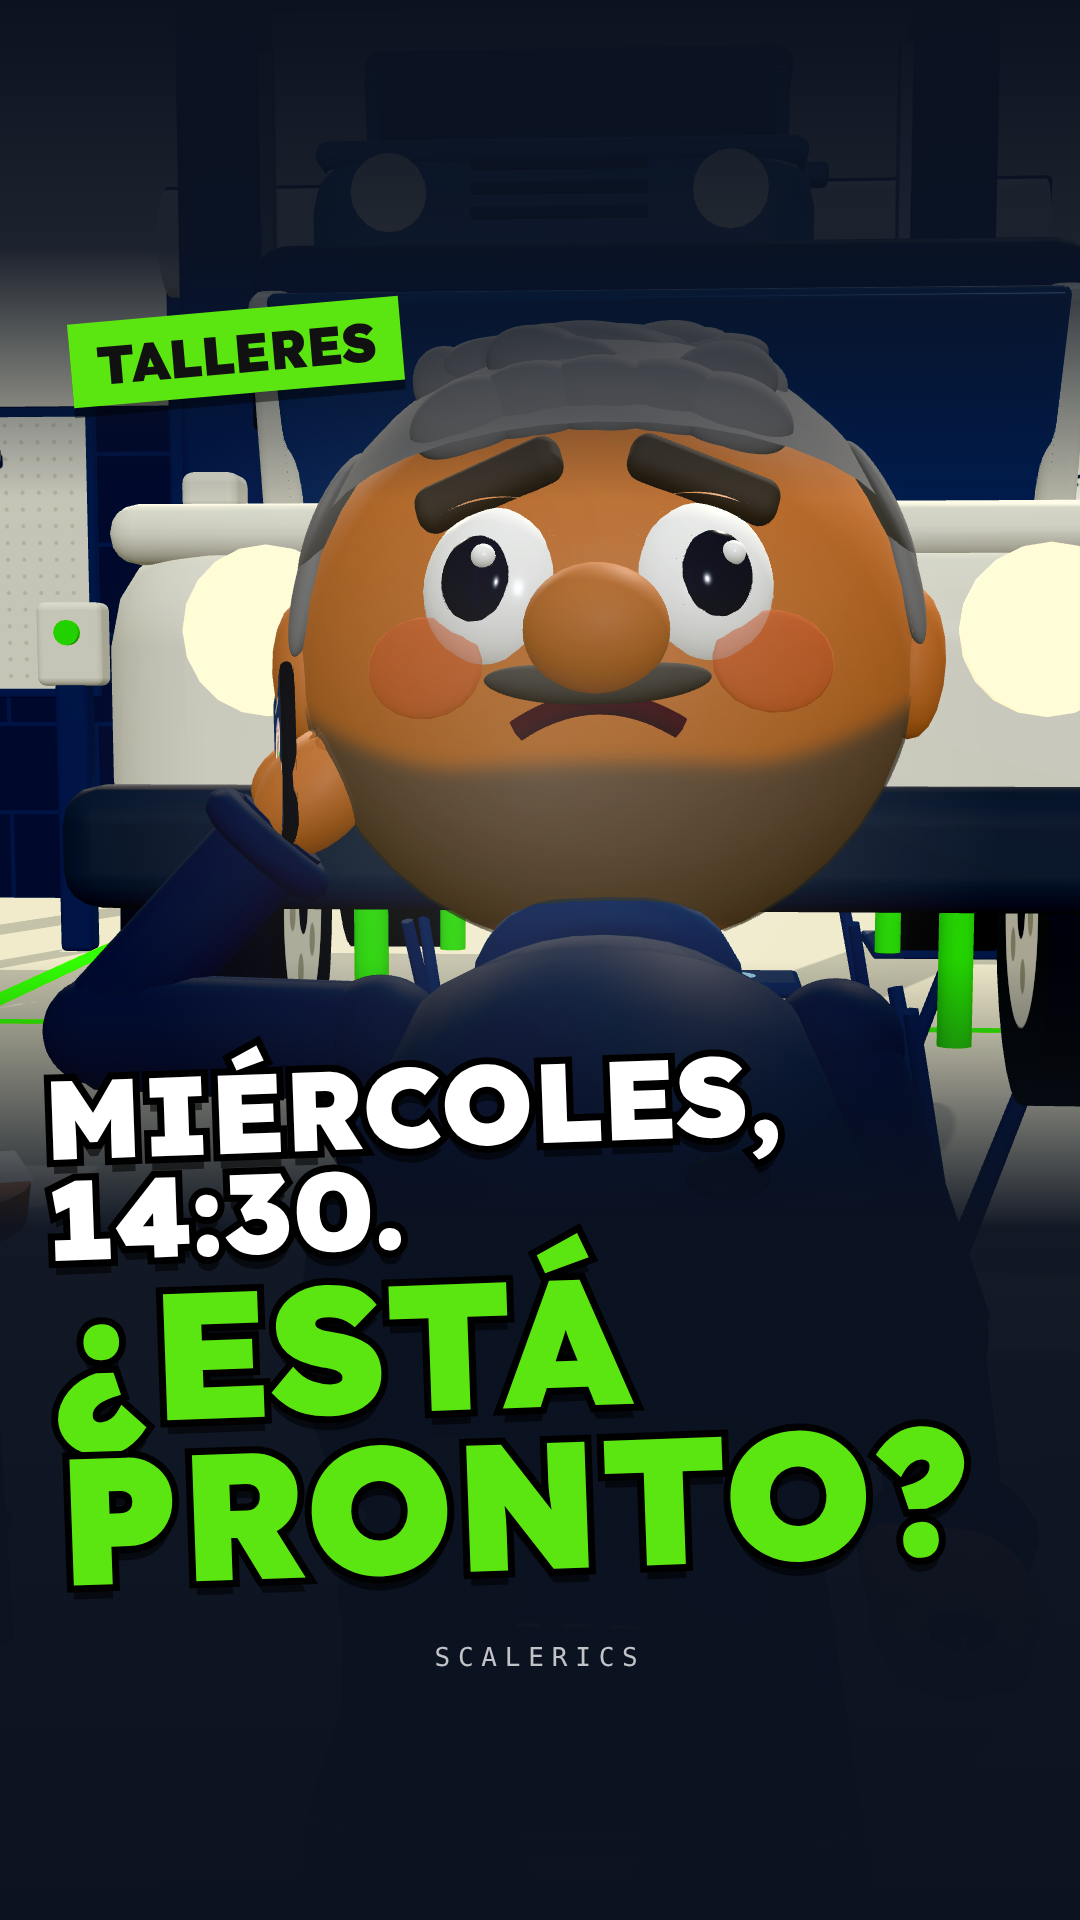
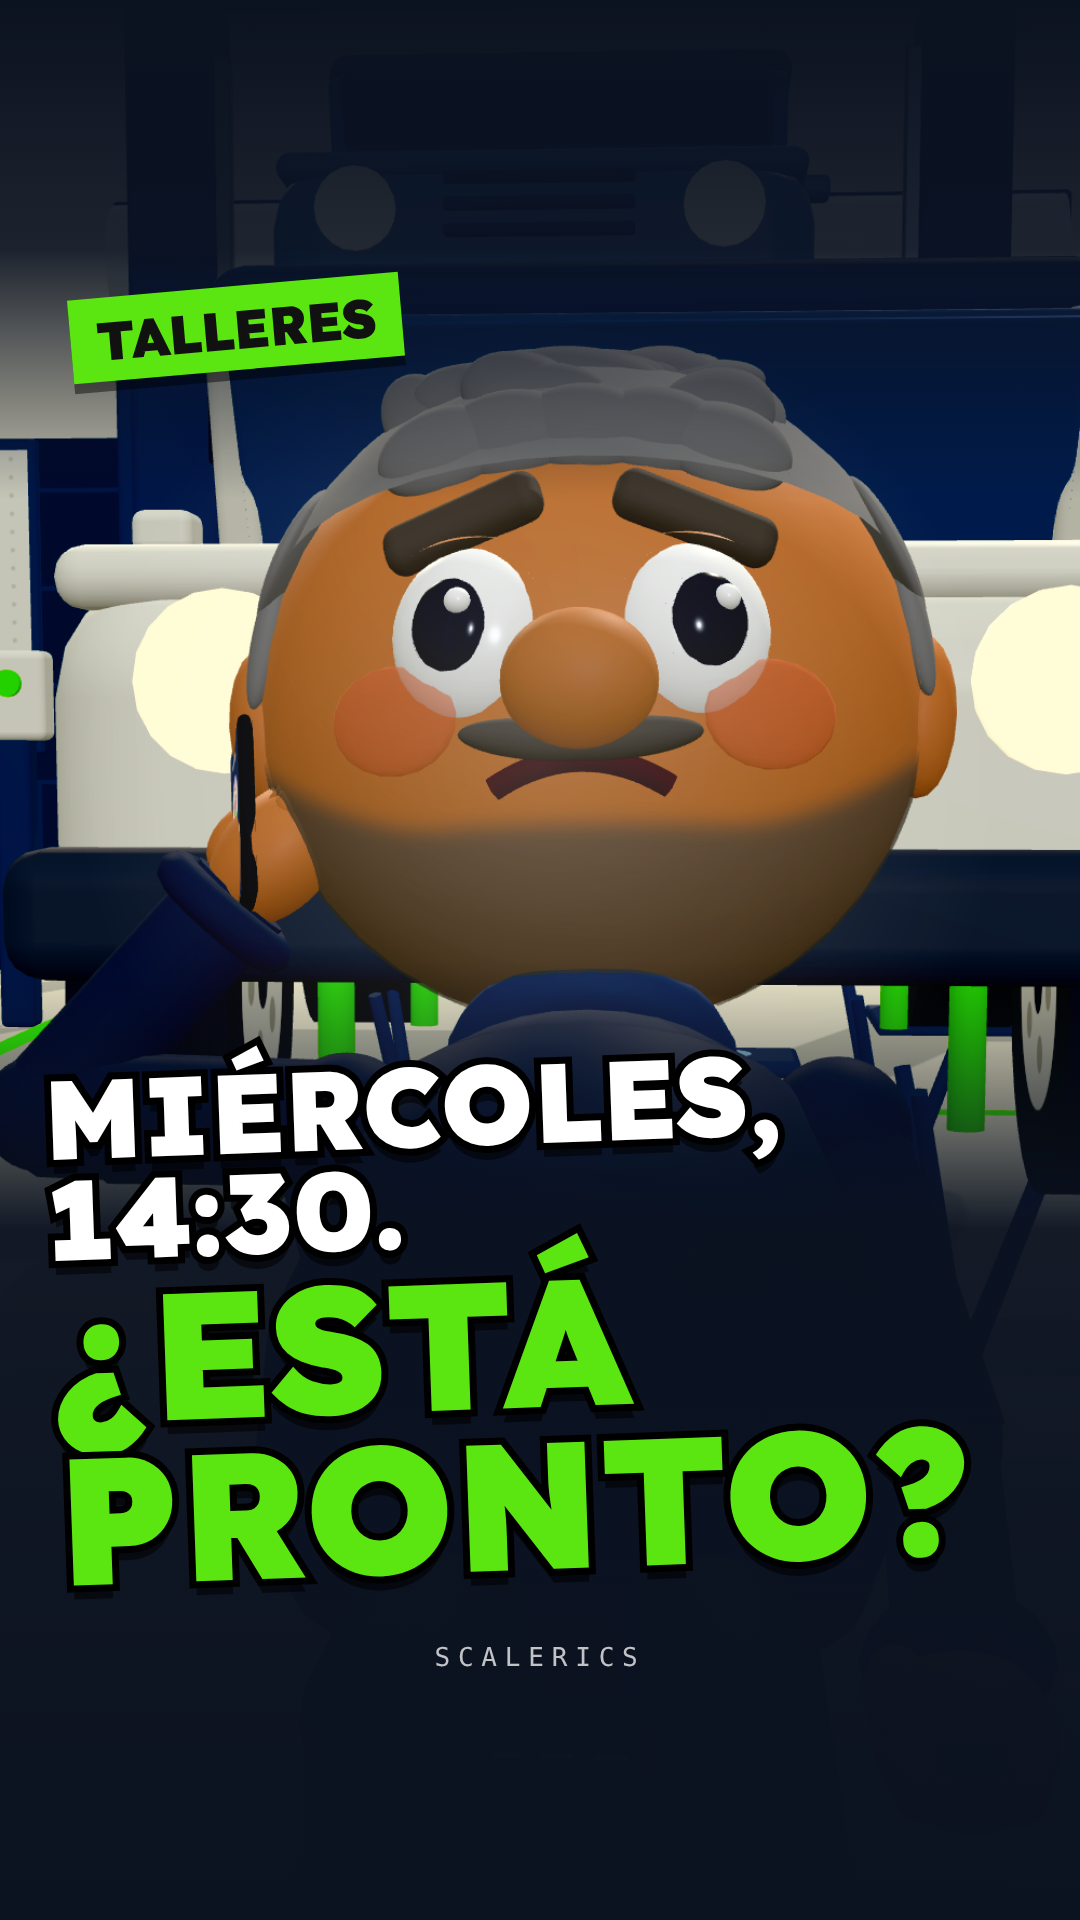
wip: taller-esta-pronto (ronda 5 retoques)
Claude-Session: https://claude.ai/code/session_01Fn7kXAaBbVBwGyQFhjp8sN

Changed region(s): [[0.0, 0.125, 1.0, 0.6562], [0.2444, 0.5938, 0.3056, 0.625]]

diff --git a/reels/taller-esta-pronto/assets/tres.js b/reels/taller-esta-pronto/assets/tres.js
@@ -557,7 +557,7 @@ const FONDO = { taller: 0xe9ece6, rot: 0xf4f4ef, bus: 0xcfdbe6 };
 // =====================================================================================================
 // LOS PERSONAJES
 // =====================================================================================================
-const oscar = crearPersonaje({ ...ELENCO.oscar, franja: null, cuelloAlto: 0.03, dedos: true, parpadeoCada: 999, parpadeoDur: 0.08, parpadeosExtra: [r2(T.cortes[1] + 0.06), r2(T.q5 + 0.08)] });
+const oscar = crearPersonaje({ ...ELENCO.oscar, franja: null, cuelloAlto: 0.03, dedos: true, parpadeoCada: 999, parpadeoDur: 0.08, parpadeosExtra: [r2(T.cortes[1] + 0.06), r2(T.q5 + 0.38)] });
 const maxi = crearPersonaje({ ...ELENCO.maxi, mangas: "largas", dedos: true, parpadeoCada: 999, parpadeoDur: 0.08, parpadeosExtra: [] });
 const daniel = crearPersonaje({ ...ELENCO.daniel, lentesFinos: true, sinPatillas: true, dedos: true, parpadeoCada: 999, parpadeoDur: 0.08, parpadeosExtra: [] });
 const graciela = crearPersonaje({ ...ELENCO.clienta, lentesFinos: true, sinPatillas: true, delantal: C.cr, delantalBorde: C.navy3, dedos: true, parpadeoCada: 999, parpadeosExtra: [] });
@@ -1005,7 +1005,7 @@ const CAM_P2 = (k) => [1.95 - 0.15 * k, 0.75, -0.75 - 0.1 * k, -1.42 + 0.05 * k,
 const CAM_PIZ = (k) => [PIZ.x, 1.75, lerp(0.6, 0.45, k), PIZ.x, 1.62, -4.8, 46];
 const CAM_P5 = (k) => [1.25 - 0.1 * k, 0.95, 6.3 - 0.15 * k, lerp(0.05, -0.2, Math.min(1, k * 3)), 0.92, 3.4, 46];
 const CAM_P6A = (k) => [0.05, 2.2, 3.0 - 0.25 * k, -0.2, 2.45, -3.05, 30 - 3 * k];
-const CAM_Q4 = (k) => [lerp(1.75, 1.65, k), lerp(3.05, 2.95, k), lerp(1.0, 0.85, k), -0.9, lerp(1.3, 1.1, k), -2.9, 58];
+const CAM_Q4 = (k) => [lerp(1.75, 1.65, k), lerp(3.05, 2.95, k), lerp(1.0, 0.85, k), lerp(-0.68, -0.78, k), lerp(1.3, 1.1, k), -2.9, lerp(70, 67, k)];
 const CAM_P6 = (k) => [0.12, 1.15, lerp(6.35, 6.15, k), 0.12, 1.02, 3.5, 34];
 const CAM_C = (k) => [0.15, 1.2, lerp(6.5, 6.3, k), 0.12, 0.84, 3.4, 44];
 const CAM_Q3O = (k) => [0.12, 1.3, lerp(7.3, 7.1, k), 0.12, 0.62, 3.7, 38];
@@ -1296,7 +1296,7 @@ function renderAt(tIn) {
     if (p2 && t >= T.sale6[1] - 0.05) {
       // Óscar con el mate (Q5 tras salir y en el cierre)
       oscar.raiz.updateMatrixWorld(true);
-      po.manoI = pa === "C" ? [0.28, 0.46, 0.3] : [0.24, 0.16, 0.34]; po.codoI = [0.8, -0.6, -0.2]; oscar.poner(po);
+      po.manoI = pa === "C" ? [0.3, 0.6, 0.28] : [0.24, 0.16, 0.34]; po.codoI = [0.8, -0.6, -0.2]; oscar.poner(po);
       mate.visible = true; oscar.brazos[0].mano.getWorldPosition(_w); mate.position.copy(_w).add(V3(0, -0.07, 0.0)); mate.rotation.set(0, 0.3, 0);
     }
     // Maxi
@@ -1343,6 +1343,8 @@ function renderAt(tIn) {
   if (ROT.visible) { graciela.raiz.visible = pa !== "Q1i"; const pg = poseGraciela(t); if (pa === "Q1g") { const yaw = Math.atan2(GRA.x - 0.12 - GRA.x, 0.7 - GRA.z); pg.cabeza = { ...(pg.cabeza || {}), giro: cl(yaw * 0.9, -0.6, 0.6) }; } if (pa === "Q1g") { pg.cabeza = { ...(pg.cabeza || {}), giro: -0.25, asiente: 0.18 }; pg.ojos = { ...(pg.ojos || {}), x: -0.5, y: -0.5, abiertos: 1 }; } if (pa === "Q1g") { pg.manoD = [-0.1, 0.4, 0.36]; pg.codoD = [-0.8, -0.6, -0.2]; pg.manoI = [0.08, 0.36, 0.36]; pg.codoI = [0.8, -0.6, -0.2]; pg.cabeza = { ...(pg.cabeza || {}), giro: 0.05, asiente: 0.3 }; pg.ojos = { ...(pg.ojos || {}), x: 0, y: -0.75, abiertos: 1 }; }
     graciela.poner(pg);
     if (pa === "Q1g") { graciela.raiz.updateMatrixWorld(true); celG.visible = false; celGm.visible = true; const a = new THREE.Vector3(), b = new THREE.Vector3(); graciela.brazos[1].mano.getWorldPosition(a); graciela.brazos[0].mano.getWorldPosition(b); celGm.position.copy(a).lerp(b, 0.5).add(V3(0, 0.1, 0.02)); celGm.lookAt(graciela.cabeza.localToWorld(V3(0, 0.1, 0.3))); } }
+  // Q4: sin el auto de Graciela (ni la camilla) en primer plano, para que el de Daniel se vea entero
+  if (pa === "Q4") { autoG.visible = false; CAMILLA.g.visible = false; oscar.raiz.visible = false; celO.visible = false; mate.visible = false; }
   // ---- cámara ----
   if (pl[2]) { ponerCam(catmull(pl[2], t), t); camera.updateMatrixWorld(true); }
   if (pa === "P3") {
@@ -1361,7 +1363,7 @@ function renderAt(tIn) {
   if (pa === "Q2") {
     tablet.updateMatrixWorld(true);
     const piv = tablet.children[0];
-    camPantalla(piv, V3(0, 0.2, 0.0065), V3(0, 0, 1), 0.36 * 1.45, 0.64, 40, t, 0.08 * (1 - eo(sg(t, T.q2, T.q2 + 0.7))));
+    camPantalla(piv, V3(0, 0.2, 0.0065), V3(0, 0, 1), 0.36 * 1.45, 0.58, 40, t, 0.08 * (1 - eo(sg(t, T.q2, T.q2 + 0.7))));
   }
   if (pa === "Q3d" || pa === "Q3a" || pa === "Q4bi") {
     // el inserto del celular de Daniel (sostenido delante, en el ómnibus)
@@ -1404,7 +1406,7 @@ function renderAt(tIn) {
     if (pa === "P1") { delCel("g1", T.g1, T.p2, 540, 640); di("o1", oscar, T.o1, T.p2, 2, 120, 820); }
     if (pa === "P2" || pa === "Q3") di("m1", maxi, pa === "P2" ? T.m1 : T.m1b, pa === "P2" ? T.p3 : T.q3o, 1, 0, 330);
     T.cortes.forEach((c, i) => { if (pa === `P4c${i}`) delCel(`k${i}`, c + 0.02, i < 2 ? c + 0.5 : T.piz, 540, 560); });
-    if (pa === "P4c2") di("o2", oscar, T.o2, T.piz, 2, 120, 740);
+    if (pa === "P4c2") di("o2", oscar, T.o2, T.piz, 2, 120, 660);
     if (pa === "P3" && t >= T.foto + 0.02) ponerGlobo(ROT_.sinfoto, 540, 150, ent(T.foto + 0.02), null, 2);
     if (pa === "Ppiz") {
       const [px2, py2] = enPantalla(V3(PIZ.x, PIZ.y - PIZ.h / 2 + 0.05, ZF + 0.2));
@@ -1421,7 +1423,7 @@ function renderAt(tIn) {
     if (pa === "Q1" && t >= T.aviso) { const r = ROT_.enviado; const [bx, by] = objPx(celO, V3(0, 0.092, 0.008)); ponerGlobo(r, 540, 420, ent(T.aviso), null, 2); ponerGuia(GUIAS[0], 540, 420 + r.userData.H / 2 - 4, bx, by, sg(t, T.aviso, T.aviso + 0.2)); }
     if (pa === "Q1i") ponerGlobo(ROT_.aviso, 540, 175, ent(T.q1i), null, 2);
     if (pa === "Q1g") di("g2", graciela, T.g2, T.q2, 1, 0, 230);
-    if (pa === "Q2" && t >= T.tarj[0] + 0.3) ponerGlobo(ROT_.panel, 540, 1790, ent(T.tarj[0] + 0.3), null, 2);
+    if (pa === "Q2" && t >= T.tarj[0] + 0.3) ponerGlobo(ROT_.panel, 540, 1565, ent(T.tarj[0] + 0.3), null, 2);
     if (pa === "Q3o" && t >= T.o5 - 0.04) { const [lx, ly] = enPantalla(CAMILLA.g.localToWorld(V3(0, 0.2, -0.2))); ponerGlobo(GL.o5, 540, 330, ent(T.o5 - 0.04), [lx, ly], 1); }
     if (pa === "Q3d") ponerGlobo(ROT_.extra, 540, 175, ent(T.q3d), null, 2);
     if (pa === "Q3e") di("d2", daniel, T.d2, T.q3a, 1, 0, 230);

diff --git a/reels/taller-esta-pronto/compositions/s10-palabra.html b/reels/taller-esta-pronto/compositions/s10-palabra.html
@@ -4,13 +4,13 @@
     @font-face { font-family: "Lexend"; font-weight: 100 900; font-display: block; src: url("assets/fonts/Lexend-var.woff2") format("woff2"); }
     #root { position: absolute; inset: 0; width: 1080px; height: 1920px; overflow: hidden; pointer-events: none; }
     [data-composition-id="s10-palabra"] .esc { position: absolute; inset: 0; }
-    [data-composition-id="s10-palabra"] .caja { position: absolute; left: 50px; right: 50px; top: 1120px; padding: 14px 10px 22px; border-radius: 40px; background: #efeee5; border: 9px solid #0b1220; box-shadow: 14px 16px 0 #0b1220; text-align: center; transform-origin: 50% 0%; }
-    [data-composition-id="s10-palabra"] .a { font: 800 86px/1.1 "Lexend", sans-serif; letter-spacing: -0.02em; color: #0b1220; }
-    [data-composition-id="s10-palabra"] .tx { font: 900 164px/1.08 "Lexend", sans-serif; letter-spacing: -0.03em; color: #0b1220; white-space: nowrap; }
+    [data-composition-id="s10-palabra"] .caja { position: absolute; left: 50px; right: 50px; top: 1065px; padding: 10px 10px 18px; border-radius: 40px; background: #efeee5; border: 9px solid #0b1220; box-shadow: 14px 16px 0 #0b1220; text-align: center; transform-origin: 50% 0%; }
+    [data-composition-id="s10-palabra"] .a { font: 800 76px/1.1 "Lexend", sans-serif; letter-spacing: -0.02em; color: #0b1220; }
+    [data-composition-id="s10-palabra"] .tx { font: 900 146px/1.08 "Lexend", sans-serif; letter-spacing: -0.03em; color: #0b1220; white-space: nowrap; }
     [data-composition-id="s10-palabra"] .sel { position: relative; display: inline-block; padding: 0 22px; margin-top: 6px; }
     [data-composition-id="s10-palabra"] .sel b { position: absolute; inset: 8px 0 -6px; background: #5ce611; border: 8px solid #0b1220; border-radius: 12px; }
     [data-composition-id="s10-palabra"] .sel em { position: relative; font-style: normal; }
-    [data-composition-id="s10-palabra"] .c { margin-top: 10px; font: 700 48px/1.2 "Lexend", sans-serif; color: #0b1220; } [data-composition-id="s10-palabra"] .c + .c { margin-top: 0; }
+    [data-composition-id="s10-palabra"] .c { margin-top: 8px; font: 700 44px/1.18 "Lexend", sans-serif; color: #0b1220; } [data-composition-id="s10-palabra"] .c + .c { margin-top: 0; }
   </style>
   <div id="root" data-composition-id="s10-palabra" data-width="1080" data-height="1920" data-duration="2.73">
     <div id="s10-palabra-esc" class="esc clip" data-start="0" data-duration="2.73" data-track-index="0">

diff --git a/reels/taller-esta-pronto/compositions/s11-cierre.html b/reels/taller-esta-pronto/compositions/s11-cierre.html
@@ -4,13 +4,13 @@
     @font-face { font-family: "Lexend"; font-weight: 100 900; font-display: block; src: url("assets/fonts/Lexend-var.woff2") format("woff2"); }
     #root { position: absolute; inset: 0; width: 1080px; height: 1920px; overflow: hidden; pointer-events: none; }
     [data-composition-id="s11-cierre"] .esc { position: absolute; inset: 0; }
-    [data-composition-id="s11-cierre"] .caja { position: absolute; left: 60px; right: 60px; top: 1600px; padding: 12px 22px 16px; border-radius: 30px; background: #0b1220; border: 5px solid #5ce611; text-align: center; box-shadow: 0 10px 0 rgba(3,6,12,0.45); }
-    [data-composition-id="s11-cierre"] .a { font: 700 46px/1.2 "Lexend", sans-serif; color: #efeee5; letter-spacing: -0.015em; }
-    [data-composition-id="s11-cierre"] .b { margin-top: 8px; font: 800 60px/1 "Lexend", sans-serif; color: #5ce611; letter-spacing: -0.02em; }
+    [data-composition-id="s11-cierre"] .caja { position: absolute; left: 50px; right: 50px; top: 1490px; padding: 10px 18px 14px; border-radius: 30px; background: #0b1220; border: 5px solid #5ce611; text-align: center; box-shadow: 0 10px 0 rgba(3,6,12,0.45); }
+    [data-composition-id="s11-cierre"] .a { font: 700 40px/1.2 "Lexend", sans-serif; color: #efeee5; letter-spacing: -0.015em; white-space: nowrap; }
+    [data-composition-id="s11-cierre"] .b { margin-top: 6px; font: 800 58px/1 "Lexend", sans-serif; color: #5ce611; letter-spacing: -0.02em; }
   </style>
   <div id="root" data-composition-id="s11-cierre" data-width="1080" data-height="1920" data-duration="1.45">
     <div id="s11-cierre-esc" class="esc clip" data-start="0" data-duration="1.45" data-track-index="0">
-      <div class="caja"><div class="a">Avisos automáticos</div><div class="a">del estado del auto</div><div class="b">scalerics.com</div></div>
+      <div class="caja"><div class="a">Avisos automáticos del estado del auto</div><div class="b">scalerics.com</div></div>
     </div>
   </div>
   <script>

diff --git a/reels/taller-esta-pronto/compositions/s00-rubro.html b/reels/taller-esta-pronto/compositions/s00-rubro.html
@@ -11,7 +11,7 @@
     [data-composition-id="s00-rubro"] .sel em { position: relative; font-style: normal; }
     [data-composition-id="s00-rubro"] .chip { position: absolute; left: 40px; padding: 14px 28px 18px; border-radius: 22px; background: #0b1220; border: 6px solid #efeee5; font: 900 58px/1 "Lexend", sans-serif; color: #efeee5; letter-spacing: -0.015em; box-shadow: 10px 12px 0 rgba(3,6,12,0.55); white-space: nowrap; }
     [data-composition-id="s00-rubro"] .cont { position: absolute; right: 40px; width: 330px; padding: 12px 10px 14px; border-radius: 24px; border: 6px solid #efeee5; text-align: center; box-shadow: 10px 12px 0 rgba(3,6,12,0.55); transform-origin: 50% 50%; }
-    [data-composition-id="s00-rubro"] .cont .a { font: 800 38px/1.05 "Lexend", sans-serif; letter-spacing: -0.02em; }
+    [data-composition-id="s00-rubro"] .cont .a { font: 800 42px/1.05 "Lexend", sans-serif; letter-spacing: -0.02em; }
     [data-composition-id="s00-rubro"] .cont .n { font: 900 96px/1 "Lexend", sans-serif; letter-spacing: -0.03em; margin-top: 4px; }
     [data-composition-id="s00-rubro"] .cont.c0 { background: #0b1220; color: #efeee5; }
     [data-composition-id="s00-rubro"] .cont.c1 { background: #c7655b; color: #efeee5; border-color: #efeee5; }

diff --git a/reels/taller-esta-pronto/compositions/s01-cont.html b/reels/taller-esta-pronto/compositions/s01-cont.html
@@ -6,7 +6,7 @@
     [data-composition-id="s01-cont"] .esc { position: absolute; inset: 0; }
     [data-composition-id="s01-cont"] .chip { position: absolute; left: 40px; padding: 14px 28px 18px; border-radius: 22px; background: #0b1220; border: 6px solid #efeee5; font: 900 58px/1 "Lexend", sans-serif; color: #efeee5; letter-spacing: -0.015em; box-shadow: 10px 12px 0 rgba(3,6,12,0.55); white-space: nowrap; }
     [data-composition-id="s01-cont"] .cont { position: absolute; right: 40px; width: 330px; padding: 12px 10px 14px; border-radius: 24px; border: 6px solid #efeee5; text-align: center; box-shadow: 10px 12px 0 rgba(3,6,12,0.55); transform-origin: 50% 50%; }
-    [data-composition-id="s01-cont"] .cont .a { font: 800 38px/1.05 "Lexend", sans-serif; letter-spacing: -0.02em; }
+    [data-composition-id="s01-cont"] .cont .a { font: 800 42px/1.05 "Lexend", sans-serif; letter-spacing: -0.02em; }
     [data-composition-id="s01-cont"] .cont .n { font: 900 96px/1 "Lexend", sans-serif; letter-spacing: -0.03em; margin-top: 4px; }
     [data-composition-id="s01-cont"] .cont.c0 { background: #0b1220; color: #efeee5; }
     [data-composition-id="s01-cont"] .cont.c1 { background: #c7655b; color: #efeee5; border-color: #efeee5; }

diff --git a/reels/taller-esta-pronto/compositions/s02-chip.html b/reels/taller-esta-pronto/compositions/s02-chip.html
@@ -6,7 +6,7 @@
     [data-composition-id="s02-chip"] .esc { position: absolute; inset: 0; }
     [data-composition-id="s02-chip"] .chip { position: absolute; left: 40px; padding: 14px 28px 18px; border-radius: 22px; background: #0b1220; border: 6px solid #efeee5; font: 900 58px/1 "Lexend", sans-serif; color: #efeee5; letter-spacing: -0.015em; box-shadow: 10px 12px 0 rgba(3,6,12,0.55); white-space: nowrap; }
     [data-composition-id="s02-chip"] .cont { position: absolute; right: 40px; width: 330px; padding: 12px 10px 14px; border-radius: 24px; border: 6px solid #efeee5; text-align: center; box-shadow: 10px 12px 0 rgba(3,6,12,0.55); transform-origin: 50% 50%; }
-    [data-composition-id="s02-chip"] .cont .a { font: 800 38px/1.05 "Lexend", sans-serif; letter-spacing: -0.02em; }
+    [data-composition-id="s02-chip"] .cont .a { font: 800 42px/1.05 "Lexend", sans-serif; letter-spacing: -0.02em; }
     [data-composition-id="s02-chip"] .cont .n { font: 900 96px/1 "Lexend", sans-serif; letter-spacing: -0.03em; margin-top: 4px; }
     [data-composition-id="s02-chip"] .cont.c0 { background: #0b1220; color: #efeee5; }
     [data-composition-id="s02-chip"] .cont.c1 { background: #c7655b; color: #efeee5; border-color: #efeee5; }

diff --git a/reels/taller-esta-pronto/compositions/s03-chip.html b/reels/taller-esta-pronto/compositions/s03-chip.html
@@ -6,7 +6,7 @@
     [data-composition-id="s03-chip"] .esc { position: absolute; inset: 0; }
     [data-composition-id="s03-chip"] .chip { position: absolute; left: 40px; padding: 14px 28px 18px; border-radius: 22px; background: #0b1220; border: 6px solid #efeee5; font: 900 58px/1 "Lexend", sans-serif; color: #efeee5; letter-spacing: -0.015em; box-shadow: 10px 12px 0 rgba(3,6,12,0.55); white-space: nowrap; }
     [data-composition-id="s03-chip"] .cont { position: absolute; right: 40px; width: 330px; padding: 12px 10px 14px; border-radius: 24px; border: 6px solid #efeee5; text-align: center; box-shadow: 10px 12px 0 rgba(3,6,12,0.55); transform-origin: 50% 50%; }
-    [data-composition-id="s03-chip"] .cont .a { font: 800 38px/1.05 "Lexend", sans-serif; letter-spacing: -0.02em; }
+    [data-composition-id="s03-chip"] .cont .a { font: 800 42px/1.05 "Lexend", sans-serif; letter-spacing: -0.02em; }
     [data-composition-id="s03-chip"] .cont .n { font: 900 96px/1 "Lexend", sans-serif; letter-spacing: -0.03em; margin-top: 4px; }
     [data-composition-id="s03-chip"] .cont.c0 { background: #0b1220; color: #efeee5; }
     [data-composition-id="s03-chip"] .cont.c1 { background: #c7655b; color: #efeee5; border-color: #efeee5; }

diff --git a/reels/taller-esta-pronto/compositions/s04-chip.html b/reels/taller-esta-pronto/compositions/s04-chip.html
@@ -6,7 +6,7 @@
     [data-composition-id="s04-chip"] .esc { position: absolute; inset: 0; }
     [data-composition-id="s04-chip"] .chip { position: absolute; left: 40px; padding: 14px 28px 18px; border-radius: 22px; background: #0b1220; border: 6px solid #efeee5; font: 900 58px/1 "Lexend", sans-serif; color: #efeee5; letter-spacing: -0.015em; box-shadow: 10px 12px 0 rgba(3,6,12,0.55); white-space: nowrap; }
     [data-composition-id="s04-chip"] .cont { position: absolute; right: 40px; width: 330px; padding: 12px 10px 14px; border-radius: 24px; border: 6px solid #efeee5; text-align: center; box-shadow: 10px 12px 0 rgba(3,6,12,0.55); transform-origin: 50% 50%; }
-    [data-composition-id="s04-chip"] .cont .a { font: 800 38px/1.05 "Lexend", sans-serif; letter-spacing: -0.02em; }
+    [data-composition-id="s04-chip"] .cont .a { font: 800 42px/1.05 "Lexend", sans-serif; letter-spacing: -0.02em; }
     [data-composition-id="s04-chip"] .cont .n { font: 900 96px/1 "Lexend", sans-serif; letter-spacing: -0.03em; margin-top: 4px; }
     [data-composition-id="s04-chip"] .cont.c0 { background: #0b1220; color: #efeee5; }
     [data-composition-id="s04-chip"] .cont.c1 { background: #c7655b; color: #efeee5; border-color: #efeee5; }

diff --git a/reels/taller-esta-pronto/NOTAS-constructor.md b/reels/taller-esta-pronto/NOTAS-constructor.md
@@ -223,3 +223,13 @@ Revisados cuadro por cuadro los 3 cuadros de cada corte tocado (18,5 · 19,6 · 
 - P5: la cámara arranca mirando más a la derecha (Óscar entero en el primer cuadro). Q1: el primer encuadre más cerrado.
 - Mezcla: el duck de la música arranca 0,25 s antes de cada voz y vuelve 0,3 s después; gota -42, rueditas -37, pop del
   chip -40. medir.py: mínimo 6,1 LU; -14,1 LUFS, pico -3,0 dBFS. check: 0 errores.
+
+## Ronda 5 (42,1 s; sin cambios de tiempos)
+- "Cada auto y su estado, en un panel" a y 1565 (termina ~1640) con el panel de Q2 al 58 %.
+- Cierre: tarjeta PRONTO más compacta (top 1065, termina ~1485, debajo del mentón) y la franja "Avisos automáticos del
+  estado del auto · scalerics.com" en una línea + la web, top 1490 (termina ~1645). El mate más alto, por encima de la tarjeta.
+- Q4: sin el auto de Graciela, la camilla ni Óscar en ese plano; fov 70 → 67 y mira a -0,68 → -0,78: el auto de Daniel
+  entero con la patente legible, sin tocar los bordes.
+- "A la tarde." (P4c2) 80 px más arriba (minY 660). Parpadeo de Óscar en Q5 a q5 + 0,38 (antes +0,08).
+- Contador: "Óscar salió a atender" a 42 px. Portada: sello_top 286 px, zoom 1,08 con foco arriba (aire entre el sello y el pelo).
+- check: 0 errores. La mezcla no cambió (medir.py 6,1 LU).
